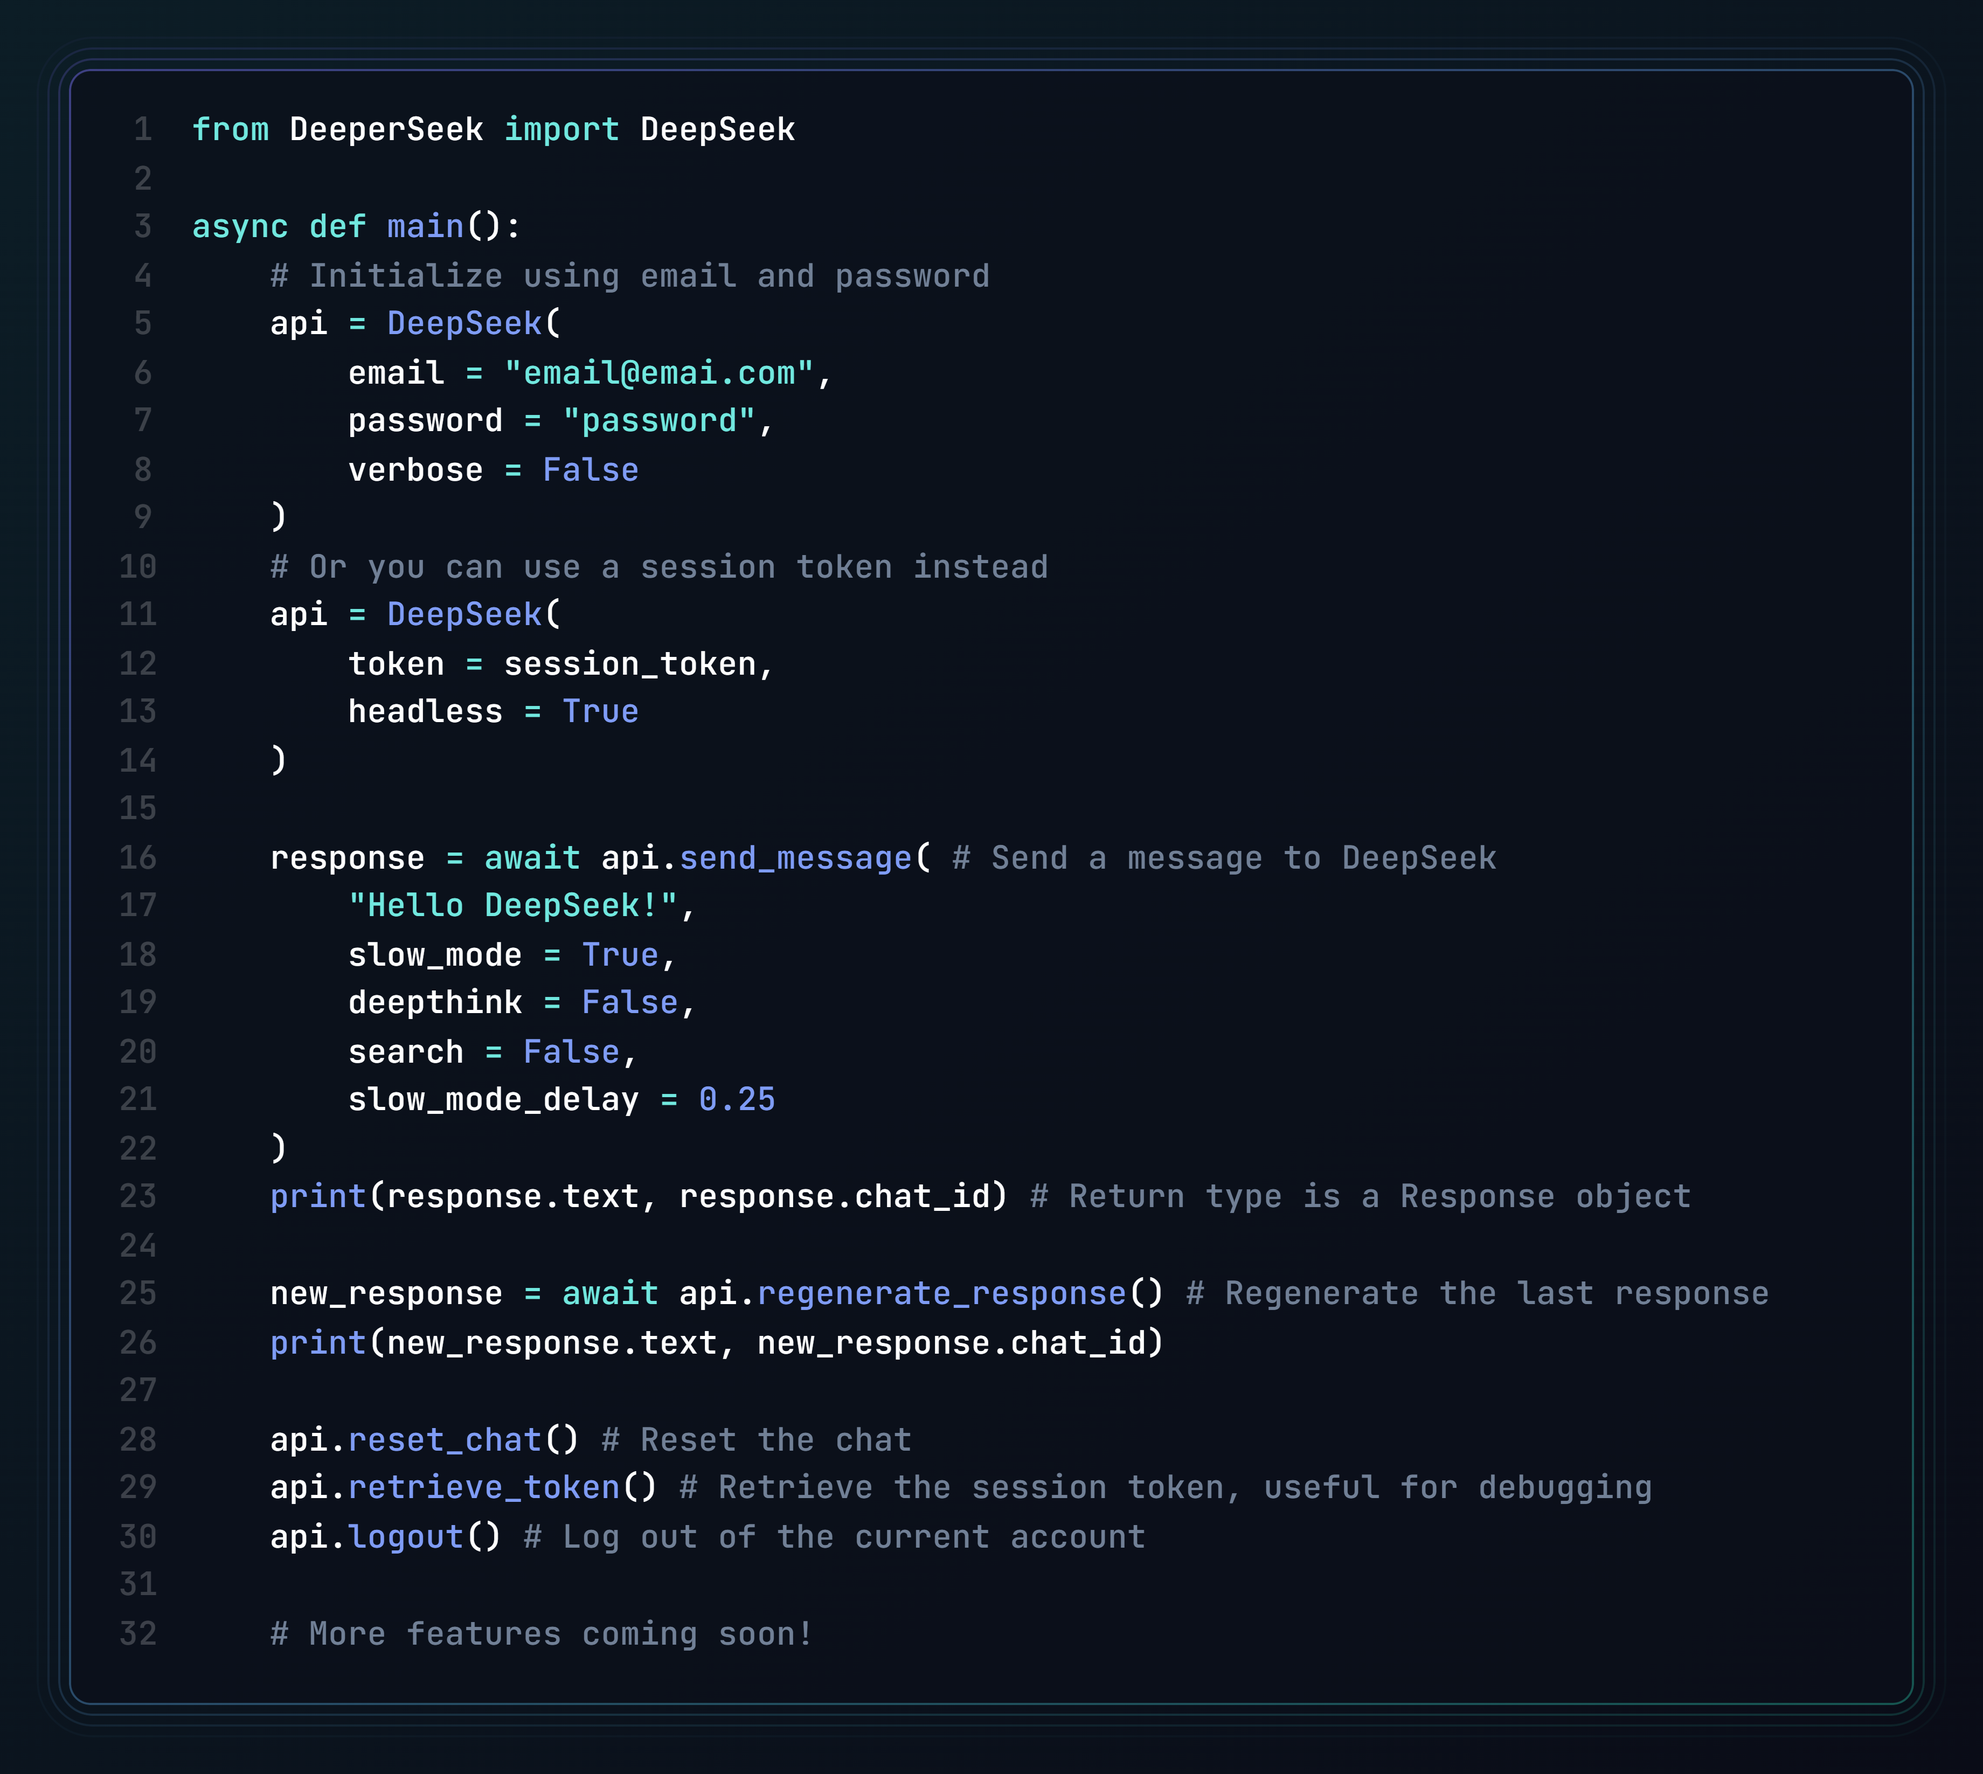
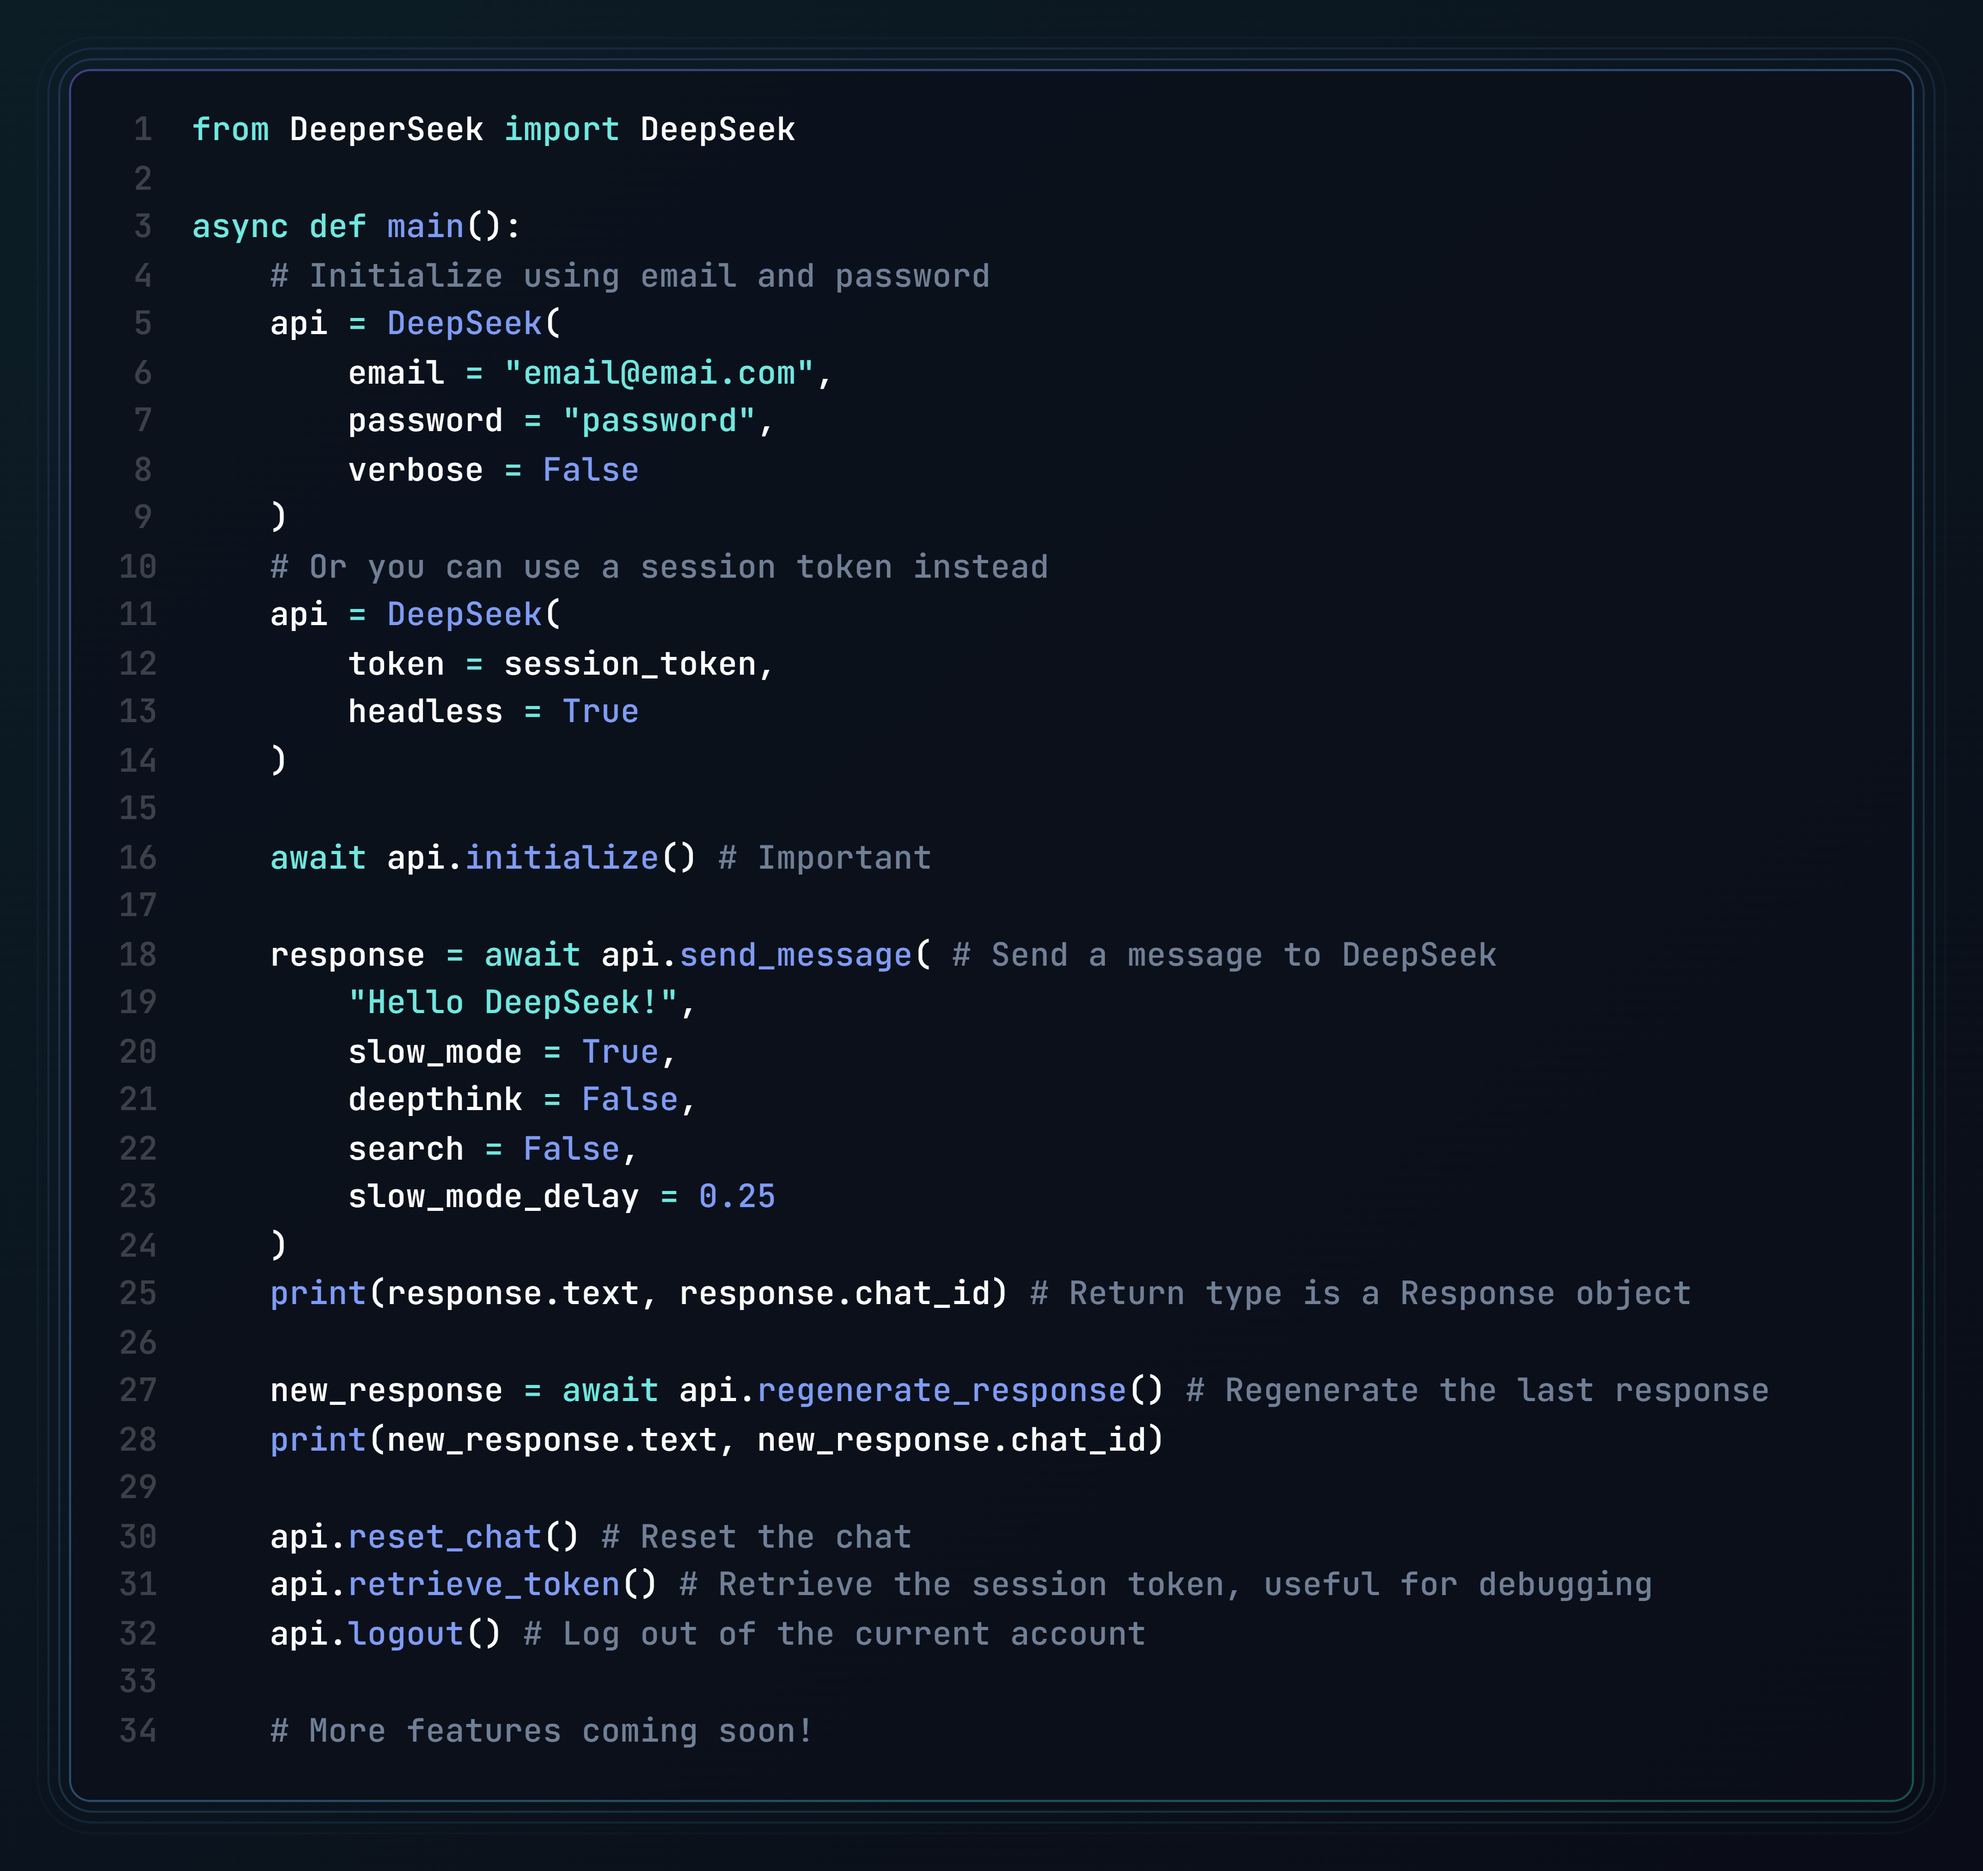
added missing codeline

diff --git a/docs/README.md b/docs/README.md
@@ -45,7 +45,7 @@ Create an instance of `DeepSeek`:
 ```py
 from DeeperSeek import DeepSeek
 
-chatbot = DeepSeek(
+api = DeepSeek(
     email = "YOUR_EMAIL",
     password = "YOUR_PASSWORD",
     token = "YOUR_SESSION_TOKEN",
@@ -55,6 +55,8 @@ chatbot = DeepSeek(
     headless = False,
     attempt_cf_bypass = True,
 )
+
+await api.initialize() # Necessary to initialize the class, must be called before using other methods
 ```
 
 # Parameters
